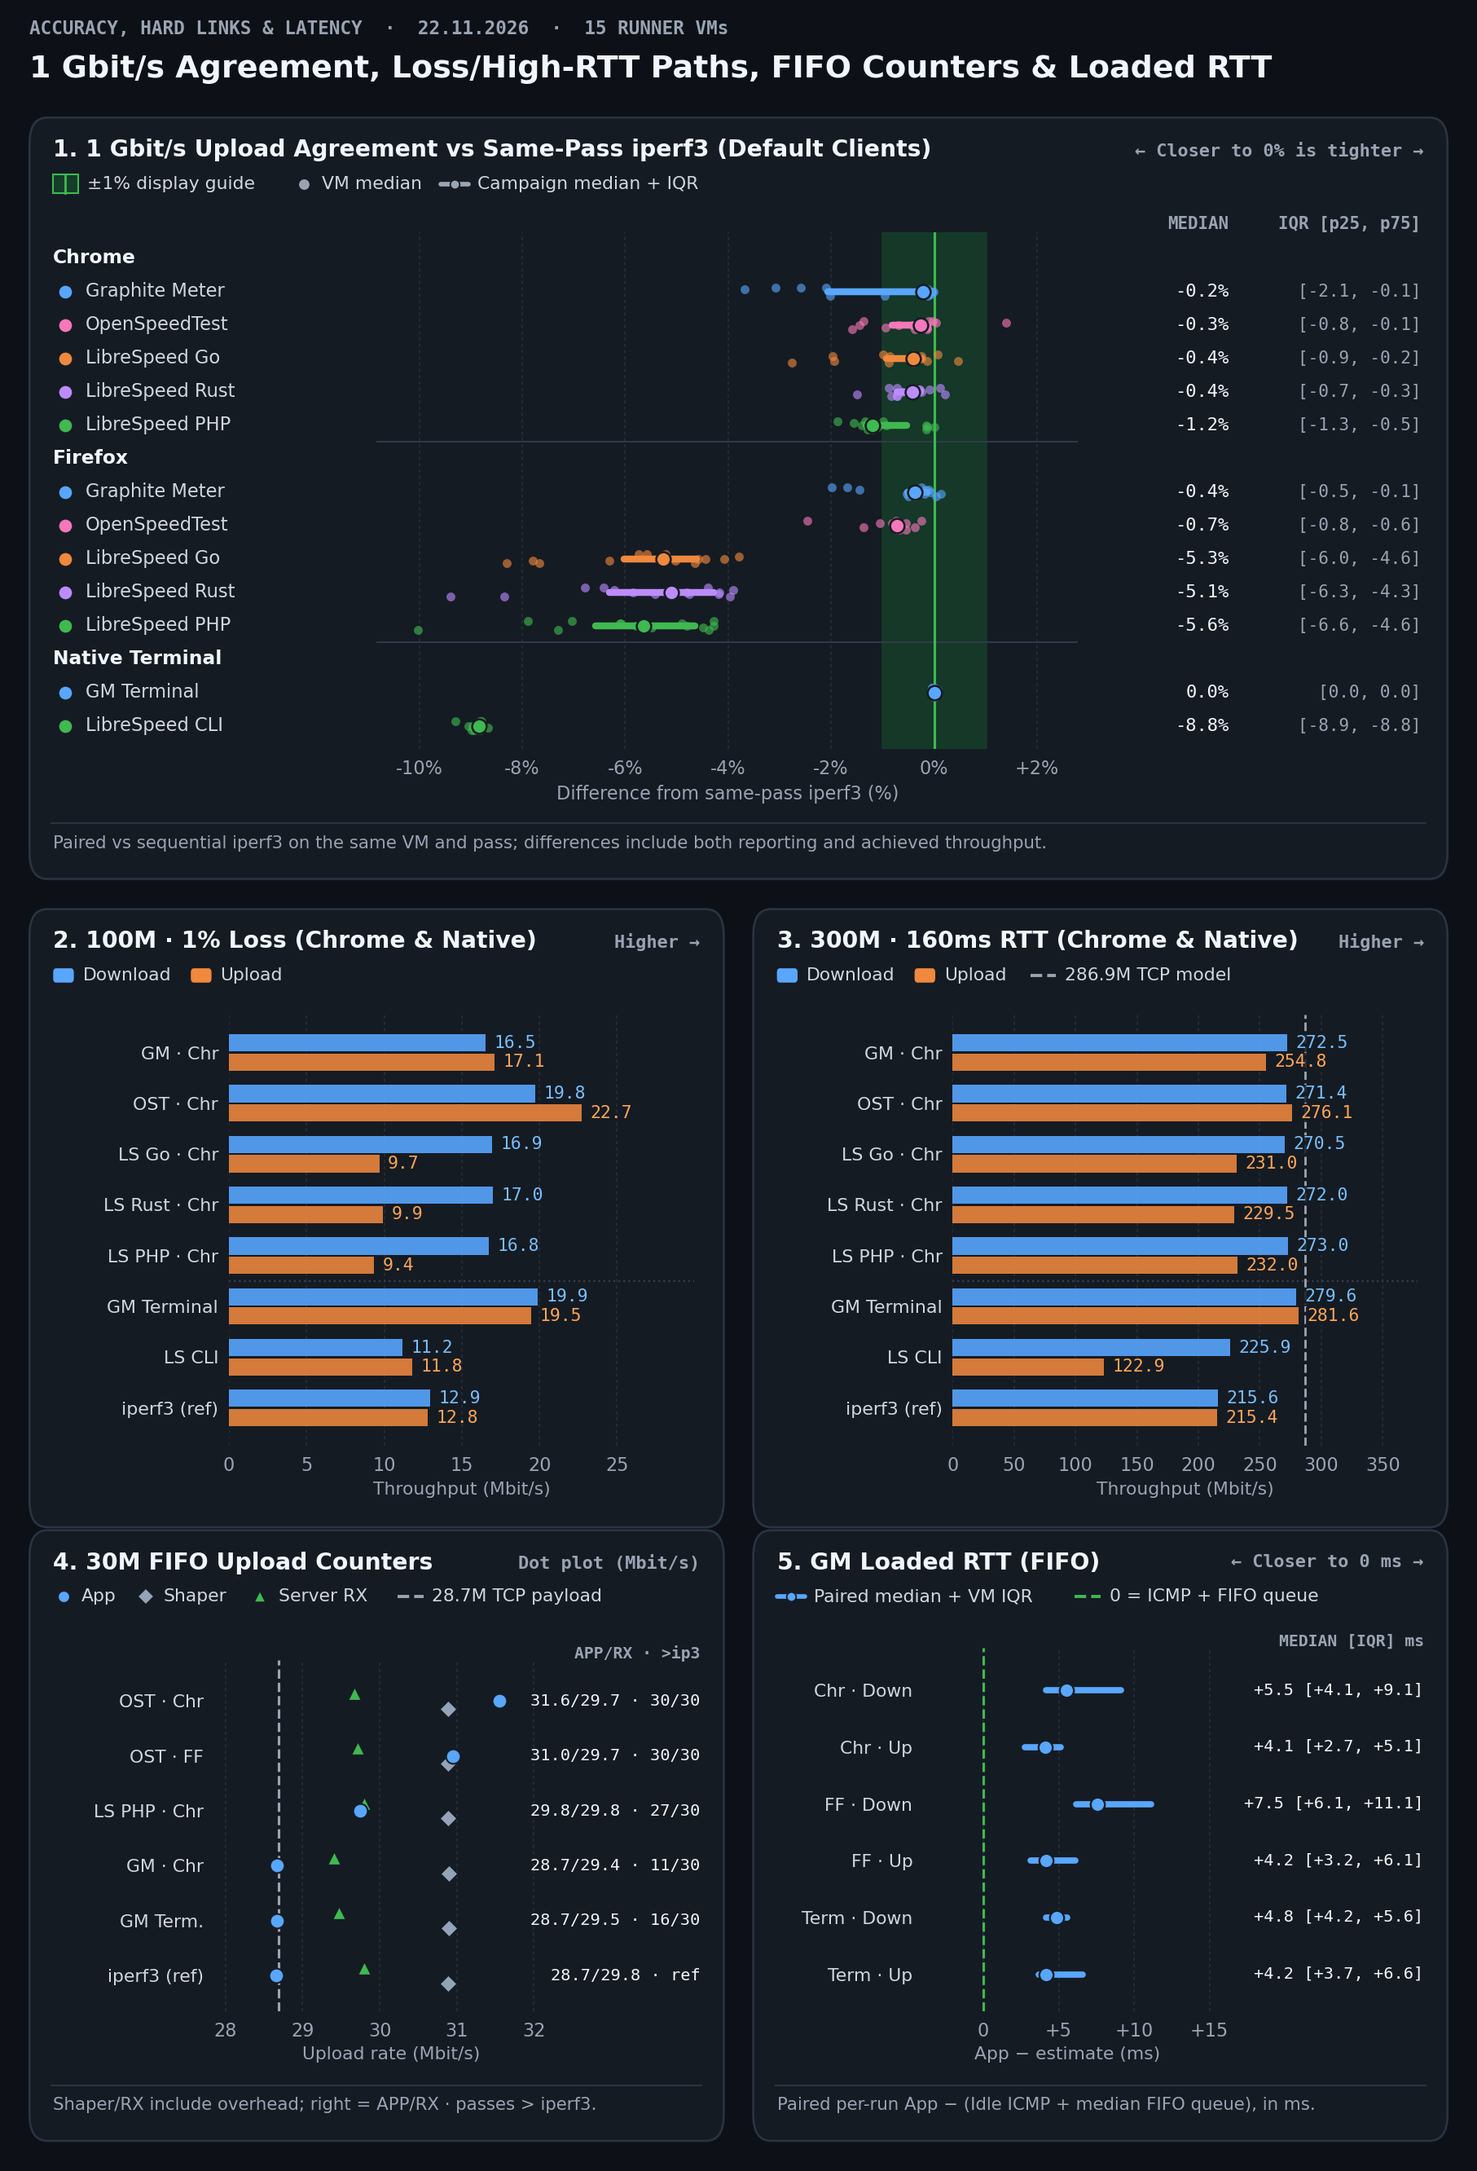
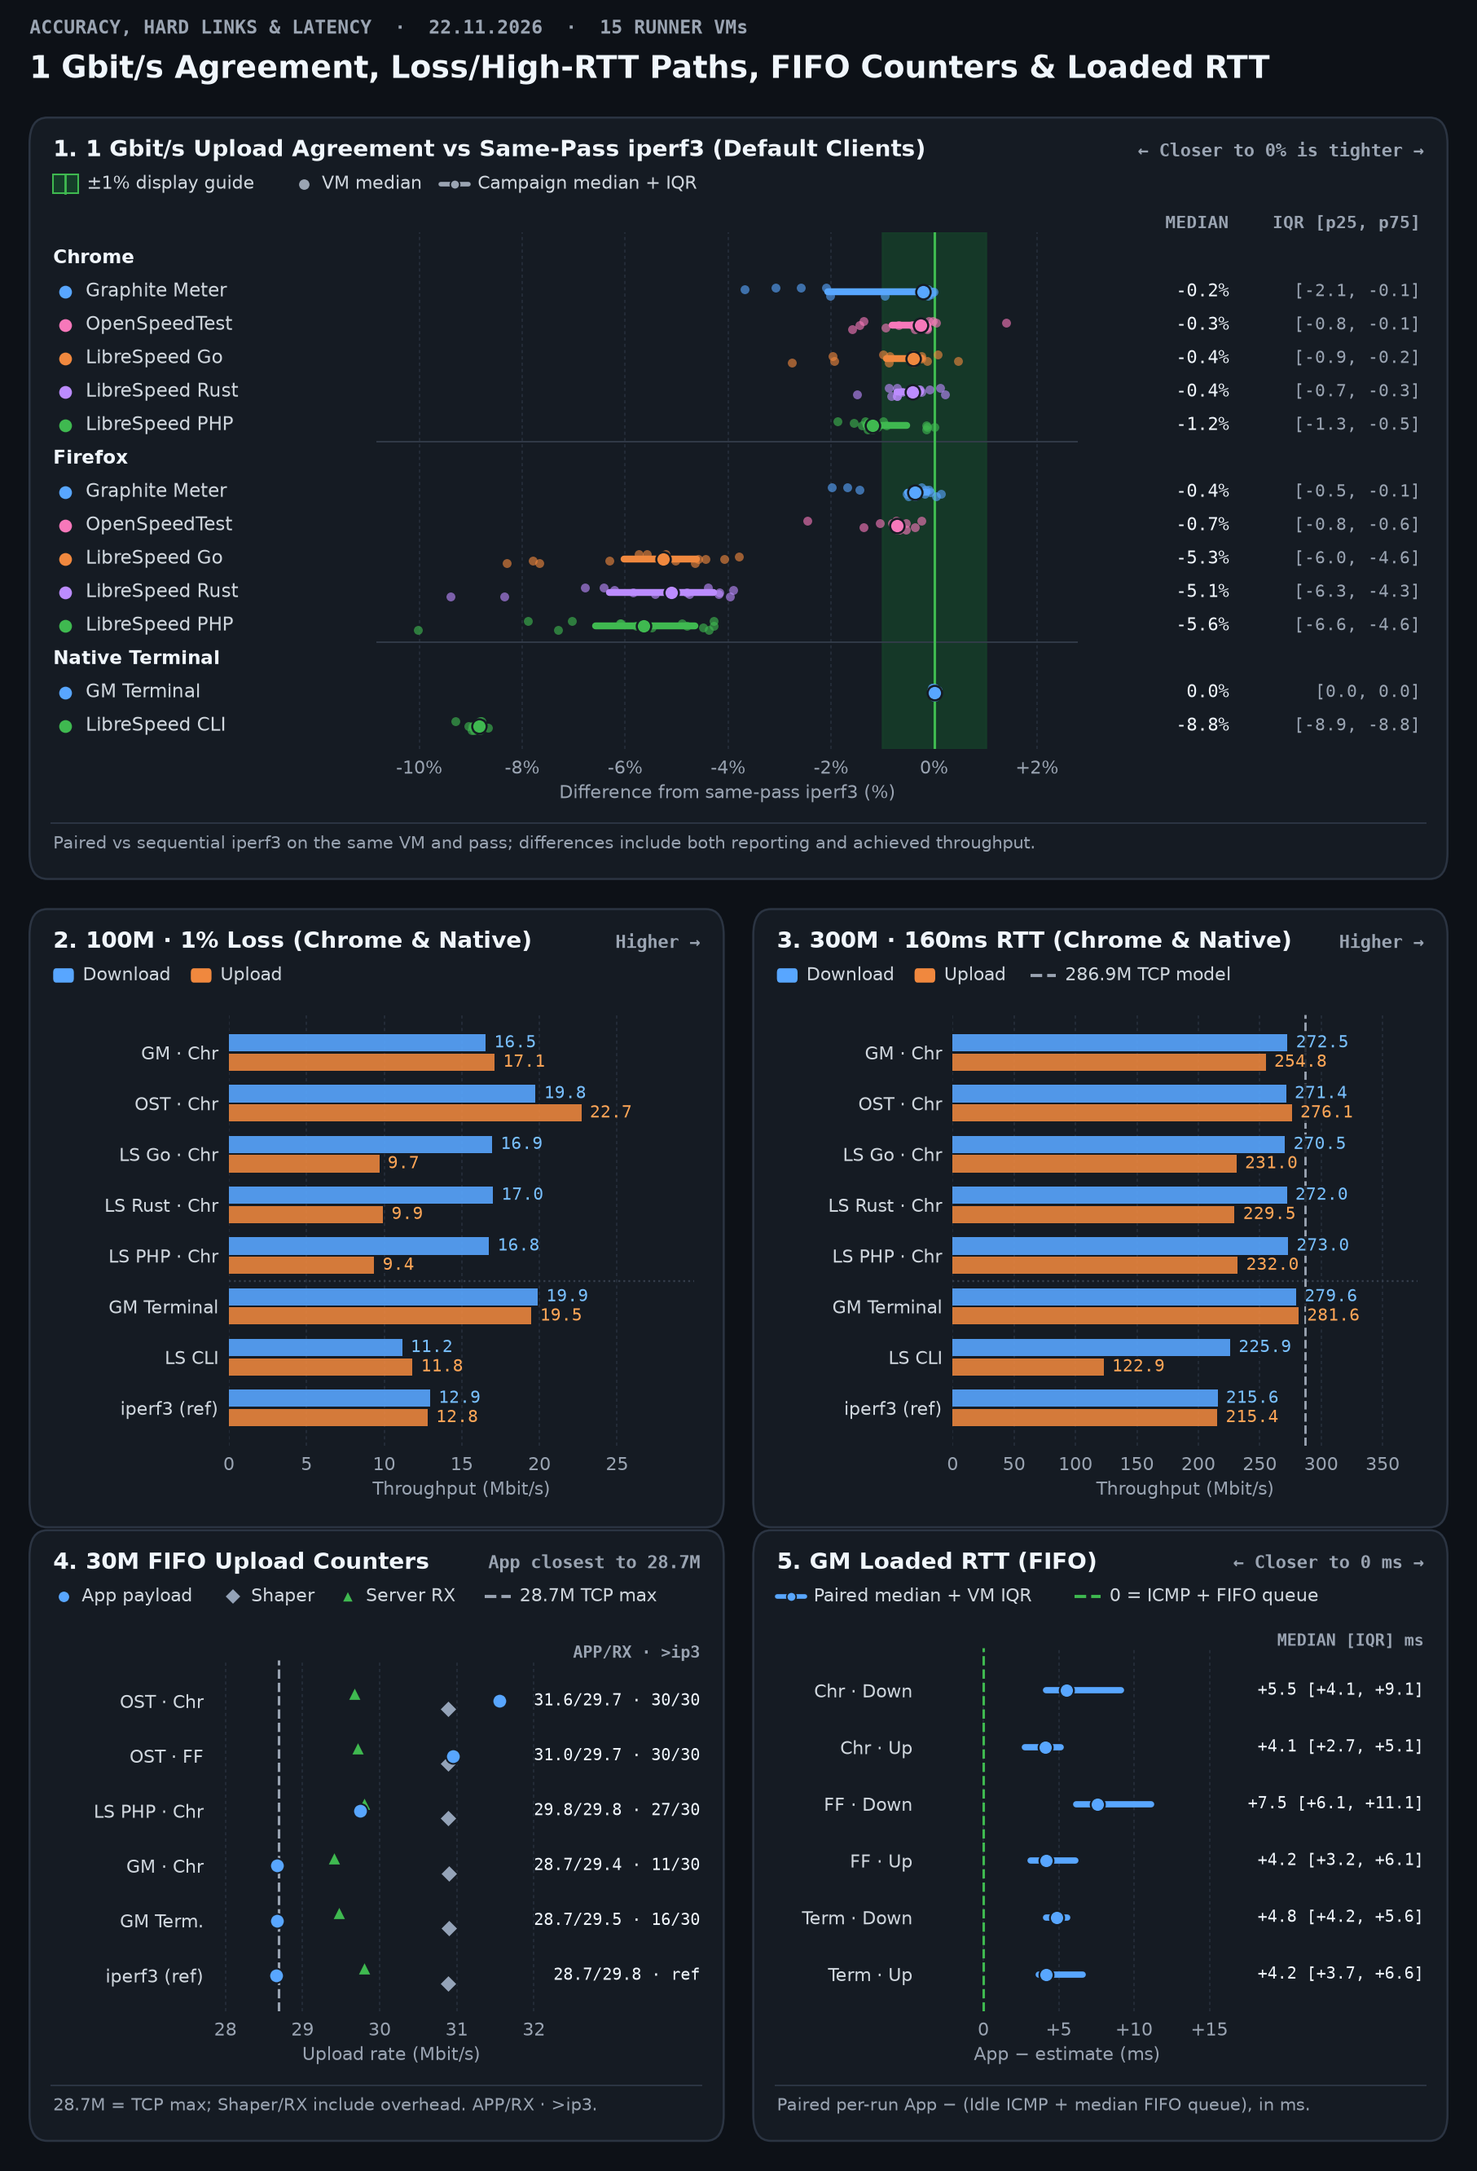
Improve chart legibility: subtle IQR ticks, group leaders, Xeon label, and FIFO direction

diff --git a/bench/charts.py b/bench/charts.py
@@ -382,32 +382,56 @@ def render_throughput_chart(out_stem, *, report_date, vm_count, measure, rate):
                     fontsize=8.1, family="DejaVu Sans Mono", color=t["muted"], weight="bold")
             ax.text(0.964, -0.78, "UL IQR [p25, p75]", transform=bl, ha="right", va="bottom",
                     fontsize=8.1, family="DejaVu Sans Mono", color=t["muted"], weight="bold")
+            # Identify per-section median leaders neutrally so the winning median in each group pops at a glance
+            sec_best_dl, sec_best_ul = {}, {}
+            cur_sec = None
+            for kind, lbl, ds, us in rows:
+                if kind == "sec":
+                    cur_sec = lbl
+                    continue
+                if ds is not None:
+                    sec_best_dl[cur_sec] = max(sec_best_dl.get(cur_sec, -1.0), round(ds[0], digits))
+                if us is not None:
+                    sec_best_ul[cur_sec] = max(sec_best_ul.get(cur_sec, -1.0), round(us[0], digits))
+
             bar_h = 0.34
+            cur_sec = None
             for i, (kind, lbl, ds, us) in enumerate(rows):
                 if kind == "sec":
+                    cur_sec = lbl
                     if i > 0:
                         ax.axhline(i - 0.52, color=t["divider"], linewidth=0.75, zorder=1)
                     ax.text(0.036, i, lbl, transform=bl, va="center", ha="left",
                             fontsize=9.1, weight="bold", color=t["ink"])
                     continue
-                ax.text(0.048, i, lbl, transform=bl, va="center", ha="left", fontsize=8.8, color=t["text"])
+                is_best_d = ds is not None and round(ds[0], digits) == sec_best_dl.get(cur_sec)
+                is_best_u = us is not None and round(us[0], digits) == sec_best_ul.get(cur_sec)
+                ax.text(0.048, i, lbl, transform=bl, va="center", ha="left", fontsize=8.8,
+                        color=t["ink"] if (is_best_d or is_best_u) else t["text"],
+                        weight="bold" if (is_best_d and is_best_u) else "normal")
                 if ds is not None:
-                    ax.barh(i - bar_h / 2, ds[0], height=bar_h, color=t["dl"], alpha=0.88, zorder=3)
+                    ax.barh(i - bar_h / 2, ds[0], height=bar_h, color=t["dl"], alpha=0.92, zorder=3)
                     if ds[2] > ds[1]:
-                        ax.plot([ds[1], ds[2]], [i - bar_h / 2, i - bar_h / 2], color=t["ink"],
-                                linewidth=1.6, solid_capstyle="round", zorder=5)
+                        ax.plot([ds[1], ds[2]], [i - bar_h / 2, i - bar_h / 2], color=t["muted"],
+                                alpha=0.72, linewidth=1.15, marker="|", markersize=4.2, markeredgewidth=1.0, zorder=5)
                 if us is not None:
-                    ax.barh(i + bar_h / 2, us[0], height=bar_h, color=t["ul"], alpha=0.88, zorder=3)
+                    ax.barh(i + bar_h / 2, us[0], height=bar_h, color=t["ul"], alpha=0.90, zorder=3)
                     if us[2] > us[1]:
-                        ax.plot([us[1], us[2]], [i + bar_h / 2, i + bar_h / 2], color=t["ink"],
-                                linewidth=1.6, solid_capstyle="round", zorder=5)
+                        ax.plot([us[1], us[2]], [i + bar_h / 2, i + bar_h / 2], color=t["muted"],
+                                alpha=0.72, linewidth=1.15, marker="|", markersize=4.2, markeredgewidth=1.0, zorder=5)
                 d_txt = fmt_num(ds[0], digits) if ds else "—"
                 u_txt = fmt_num(us[0], digits) if us else "—"
-                ax.text(0.818, i, f"{d_txt:>5} / {u_txt:>5}", transform=bl, ha="right", va="center",
-                        fontsize=8.5, family="DejaVu Sans Mono", color=t["ink"])
+                ax.text(0.752, i, f"{d_txt:>5}", transform=bl, ha="right", va="center",
+                        fontsize=8.5, family="DejaVu Sans Mono",
+                        color=t["dl_txt"] if is_best_d else t["text"], weight="bold" if is_best_d else "normal")
+                ax.text(0.768, i, "/", transform=bl, ha="center", va="center",
+                        fontsize=8.3, family="DejaVu Sans Mono", color=t["faint"])
+                ax.text(0.822, i, f"{u_txt:>5}", transform=bl, ha="right", va="center",
+                        fontsize=8.5, family="DejaVu Sans Mono",
+                        color=t["ul_txt"] if is_best_u else t["text"], weight="bold" if is_best_u else "normal")
                 iqr_txt = f"[{fmt_num(us[1], digits)}, {fmt_num(us[2], digits)}]" if us else "—"
                 ax.text(0.964, i, iqr_txt, transform=bl, ha="right", va="center",
-                        fontsize=8.2, family="DejaVu Sans Mono", color=t["muted"])
+                        fontsize=8.1, family="DejaVu Sans Mono", color=t["muted"])
             if ceiling is not None:
                 ax.axvline(ceiling, color=t["muted"], linestyle="--", linewidth=1.25, zorder=4)
             ax.set_yticks([])
@@ -420,9 +444,9 @@ def render_throughput_chart(out_stem, *, report_date, vm_count, measure, rate):
             fh - 0.78 - c1_h, c1_h,
             "1. 10 Gbit/s Shaped Link (2 ms RTT, offloads on)",
             rows_10g, 9.56, 2,
-            "Bars show median across VMs; whiskers span the middle 50% (IQR). Identical default roster in both panels.",
+            "Bars = median across VMs (bold = group leader); thin capped ticks = middle 50% (IQR).",
             [("Download", t["dl"], "bar"), ("Upload", t["ul"], "bar"),
-             ("VM middle 50% (IQR)", t["ink"], "whisker"),
+             ("VM middle 50% (IQR)", t["muted"], "whisker"),
              ("9.56 Gbit/s modeled TCP ceiling", t["muted"], "dashed")],
         )
         c2_h = 5.90
@@ -430,9 +454,9 @@ def render_throughput_chart(out_stem, *, report_date, vm_count, measure, rate):
             0.22, c2_h,
             "2. Unshaped Virtual Link (No Rate Limit, 1 Server vCPU / 2 Client vCPUs)",
             rows_un, None, 1,
-            "Observed single-test throughput on host-local virtual link (median across VMs; whiskers = VM IQR). Native order reverses across AWS/Azure VMs.",
+            "Observed single-test throughput on host-local virtual link (median across VMs; bold = group leader; ticks = VM IQR).",
             [("Download", t["dl"], "bar"), ("Upload", t["ul"], "bar"),
-             ("VM middle 50% (IQR)", t["ink"], "whisker")],
+             ("VM middle 50% (IQR)", t["muted"], "whisker")],
         )
 
         fig.savefig(f"{out_stem}-{theme}.png", dpi=185, facecolor=t["bg"])
@@ -581,10 +605,10 @@ def render_accuracy_chart(
         _draw_card(
             fig, 0.020, c3_y, 0.470, c3_h, t,
             title="4. 30M FIFO Upload Counters",
-            direction="Dot plot (Mbit/s)",
-            legend=[("App", t["dl"], "dot"), ("Shaper", t["shaper"], "diamond"),
-                    ("Server RX", t["rx"], "triangle"), ("28.7M TCP payload", t["muted"], "dashed")],
-            footer="Shaper/RX include overhead; right = APP/RX · passes > iperf3.",
+            direction="App closest to 28.7M",
+            legend=[("App payload", t["dl"], "dot"), ("Shaper", t["shaper"], "diamond"),
+                    ("Server RX", t["rx"], "triangle"), ("28.7M TCP max", t["muted"], "dashed")],
+            footer="28.7M = TCP max; Shaper/RX include overhead. APP/RX · >ip3.",
         )
         ax4 = _add_ax(fig, 0.145, c3_y + 0.86, 0.240, c3_h - 1.72, t, "x")
         uc_items = [
@@ -922,29 +946,42 @@ def render_resources_chart(out_stem, *, report_date, vm_count, groups, measure, 
             legend=[("GM H1", t["family"]["gm1"], "bar"), ("iperf3", t["family"]["ip"], "bar"),
                     ("LS PHP/CLI", t["family"]["ls"], "bar"), ("LS Go", t["family"]["lsg"], "bar"),
                     ("LS Rust", t["family"]["lsr"], "bar"), ("OST", t["family"]["ost"], "bar"),
-                    ("VM IQR", t["ink"], "whisker")],
-            footer="CPU seconds per shaper GB over the full run. Browser rows measure the browser process tree; native rows measure container cgroup.",
+                    ("VM IQR", t["muted"], "whisker")],
+            footer="CPU seconds per shaper GB over the full run (bold = lowest in group; ticks = VM IQR). Browser = process tree; native = cgroup.",
         )
         ax4 = _add_ax(fig, 0.250, c3_y + 0.84, 0.545, c4_h - 1.56, t, "x")
         bl4 = matplotlib.transforms.blended_transform_factory(fig.transFigure, ax4.transData)
         m4 = max([r[3][2] for r in c_rows if r[0] == "row"] + [1.0])
         ax4.text(0.962, -0.78, "MEDIAN [IQR] (n)", transform=bl4, ha="right", va="bottom",
                  fontsize=8.0, family="DejaVu Sans Mono", color=t["muted"], weight="bold")
+        sec_best_c = {}
+        cur_sec = None
+        for kind, lbl, _, sp, _ in c_rows:
+            if kind == "sec":
+                cur_sec = lbl
+            elif sp is not None:
+                sec_best_c[cur_sec] = min(sec_best_c.get(cur_sec, 1e9), round(sp[0], 2))
+        cur_sec = None
         for i, (kind, lbl, cl, sp, n) in enumerate(c_rows):
             if kind == "sec":
+                cur_sec = lbl
                 if i > 0:
                     ax4.axhline(i - 0.50, color=t["divider"], linewidth=0.75, zorder=1)
                 ax4.text(0.036, i, lbl, transform=bl4, va="center", ha="left",
                          fontsize=8.9, weight="bold", color=t["ink"])
                 continue
             med, lo, hi = sp
+            is_best = round(med, 2) == sec_best_c.get(cur_sec)
             col = t["family"][_family_of(cl[0])]
-            ax4.text(0.050, i, lbl, transform=bl4, va="center", ha="left", fontsize=8.6, color=t["text"])
-            ax4.barh(i, med, height=0.58, color=col, alpha=0.86, zorder=3)
+            ax4.text(0.050, i, lbl, transform=bl4, va="center", ha="left", fontsize=8.6,
+                     color=t["ink"] if is_best else t["text"], weight="bold" if is_best else "normal")
+            ax4.barh(i, med, height=0.58, color=col, alpha=0.90, zorder=3)
             if hi > lo:
-                ax4.plot([lo, hi], [i, i], color=t["ink"], linewidth=1.7, solid_capstyle="round", zorder=5)
+                ax4.plot([lo, hi], [i, i], color=t["muted"], alpha=0.75, linewidth=1.25,
+                         marker="|", markersize=4.5, markeredgewidth=1.0, zorder=5)
             ax4.text(0.962, i, f"{med:.2f} [{lo:.2f}, {hi:.2f}] (n={n})", transform=bl4, ha="right", va="center",
-                     fontsize=8.2, family="DejaVu Sans Mono", color=t["text"])
+                     fontsize=8.2, family="DejaVu Sans Mono",
+                     color=t["ink"] if is_best else t["text"], weight="bold" if is_best else "normal")
         ax4.set_yticks([])
         ax4.set_ylim(len(c_rows) - 0.35, -0.78)
         ax4.set_xlim(0, m4 * 1.12)
@@ -1143,7 +1180,11 @@ def render_hardware_chart(out_stem, *, report_date, vm_count, by_vm, paired_vms,
             return ys
 
         def _short_cpu(cpu):
-            return cpu.replace("Intel ", "").replace("AMD ", "")
+            s = re.sub(r"(?i)\(r\)|\(tm\)|\b(intel|amd|platinum|gold|silver|bronze|processor|cpu|\d+-core)\b", "", cpu)
+            s = re.sub(r"\s+", " ", s).strip()
+            s = re.sub(r"(?i)\bxeon\b", "Xeon", s)
+            s = re.sub(r"(?i)\bepyc\b", "EPYC", s)
+            return s
 
         # Panel 1: Per-VM dots + group medians by CPU & kernel (n=1 visibly single dot!)
         lr1 = _draw_card(
@@ -1457,10 +1498,13 @@ def render_historic_trends(results_root, out_stem):
                             first_valid = i
                 if np.all(np.isnan(ys_full)):
                     continue
-                # Preserve missing-campaign gaps cleanly (NaN breaks line & ribbon)
-                ax.fill_between(xs_full, lo_full, hi_full, color=col, alpha=0.07 if theme == "dark" else 0.08, zorder=2)
-                ax.plot(xs_full, ys_full, color=col, linestyle=ls, linewidth=2.2, marker=mk, markersize=5.2,
-                        markeredgecolor=t["card"], markeredgewidth=0.7, label=slbl, zorder=4)
+                # Preserve missing-campaign gaps cleanly (NaN breaks line); use crisp thin vertical IQR ticks instead of muddy overlapping ribbons
+                valid = ~np.isnan(ys_full)
+                if np.any(valid):
+                    ax.vlines(xs_full[valid], lo_full[valid], hi_full[valid], color=col,
+                              alpha=0.36 if theme == "dark" else 0.34, linewidth=1.3, zorder=2)
+                ax.plot(xs_full, ys_full, color=col, linestyle=ls, linewidth=2.3, marker=mk, markersize=5.4,
+                        markeredgecolor=t["card"], markeredgewidth=0.75, label=slbl, zorder=4)
                 # Only attach right-edge label when the latest campaign actually has a measurement!
                 if not np.isnan(ys_full[last_x]):
                     lv = float(ys_full[last_x])
@@ -1505,7 +1549,7 @@ def render_historic_trends(results_root, out_stem):
                 text.set_color(t["text"])
 
         fig.text(0.020, 0.08 / fh,
-                 "Each point is the campaign median of VM medians; faint bands = middle 50% of VMs. Dotted = GM releases. Oct runs use pre-pass busy filter.",
+                 "Points = campaign median of VM medians; thin vertical ticks = middle 50% (IQR) of VMs. Dotted = GM releases. Oct runs use pre-pass filter.",
                  color=t["muted"], fontsize=8.1, va="bottom", ha="left")
         fig.savefig(f"{out_stem}-{theme}.png", dpi=185, facecolor=t["bg"])
         plt.close(fig)

diff --git a/bench/report.py b/bench/report.py
@@ -987,8 +987,8 @@ if not historical:
             "<!-- historic-trends-start -->\n"
             "## Historic trends\n\n"
             f"Automatically updated after every full 15-job GitHub runner campaign (**{len(history_entries)} campaigns** "
-            f"from **{first_d}** to **{last_d}**). Each point is the campaign median of VM medians; faint bands show "
-            "the middle 50% of VMs; dotted vertical lines mark Graphite Meter release transitions.\n\n"
+            f"from **{first_d}** to **{last_d}**). Each point is the campaign median of VM medians; vertical ticks show "
+            "the middle 50% (IQR) of VMs; dotted vertical lines mark Graphite Meter release transitions.\n\n"
             + picture_figure("history-trends", "Throughput, accuracy and server resource trends across all published GitHub runner campaigns.", base="results")
             + "\n<!-- historic-trends-end -->"
         )

diff --git a/README.md b/README.md
@@ -74,7 +74,7 @@ Graphite Meter Terminal had a higher upload rate than iperf3 on **15 of 15 VMs**
 <!-- historic-trends-start -->
 ## Historic trends
 
-Automatically updated after every full 15-job GitHub runner campaign (**8 campaigns** from **18.10.2026** to **22.11.2026**). Each point is the campaign median of VM medians; faint bands show the middle 50% of VMs; dotted vertical lines mark Graphite Meter release transitions.
+Automatically updated after every full 15-job GitHub runner campaign (**8 campaigns** from **18.10.2026** to **22.11.2026**). Each point is the campaign median of VM medians; vertical ticks show the middle 50% (IQR) of VMs; dotted vertical lines mark Graphite Meter release transitions.
 
 <picture>
   <source media="(prefers-color-scheme: dark)" srcset="results/history-trends-dark.png">
